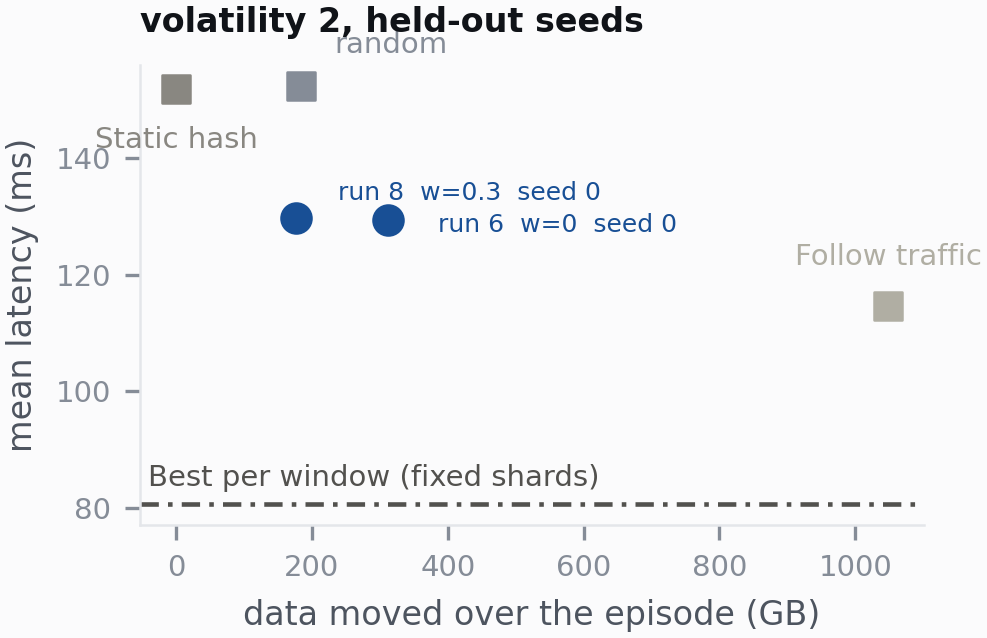
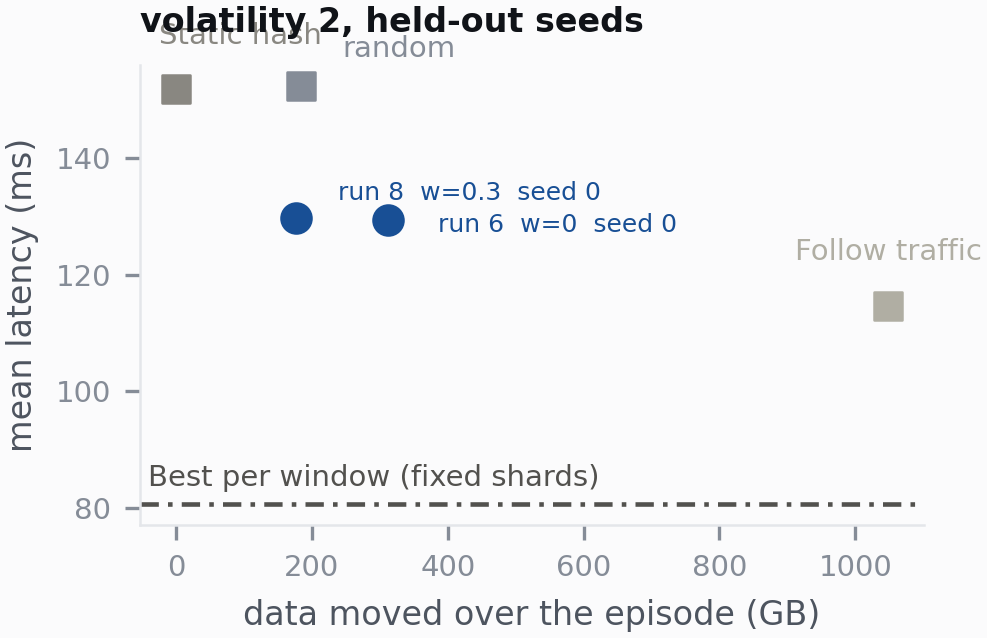
Read the last three archives: the replicate holds, two of my thresholds did not
Both seeds at volatility 4 and weight 0.30 beat follow traffic, by 0.068 and
0.031. The seed spread of 0.036 is smaller than the smaller margin, so the
result survives a change of seed, which is what run 7 was dispatched to find
out and what the paper can now claim.

The win is specific rather than general. It holds at volatility 4 and weight
0.30 and nowhere else tested: level at volatility 2 and the same weight, 0.012
behind at weight 0.10, and out of the contest at weight 0.00 where follow
traffic's terabyte of movement is free. That is coherent. The agent's advantage
is in how little it moves, so it grows with the price of moving, and raising
the weight from 0.10 to 0.30 turns a deficit into an advantage.

Against static hashing the agent wins in all five measured runs under every
weight, by 0.035 to 0.202, and that needs no qualification.

I also have to correct my own threshold table. It held follow traffic's cost at
weight 0.30 whilst scoring runs 4 and 6 at their own lower weights, which
compares a policy against a differently-weighted opponent. It called run 4 a
near-certain win; scored correctly it loses. The rows computed at a single
weight throughout stand, including the coin toss called on run 8, which lost by
0.0028.

All five imbalances now measured, 0.695 to 0.816, against static hashing's 0.50
to 0.56 and follow traffic's 0.95 to 1.00. The agent is reliably intermediate
and never approaches follow traffic's concentration, which given that cluster
[…]

diff --git a/docs/open-questions.md b/docs/open-questions.md
@@ -641,3 +641,61 @@ frontier and should be read rather than assumed.
 
 Until run 7 is read, the volatility-4 claim rests on one seed, and this file has
 already recorded that one seed is not enough.
+
+---
+
+## All five agent imbalances measured, 26 October 2026
+
+The remaining three archives were read. Every measured run, scored on the reward
+it was trained under, with the baselines measured on the same held-out seeds:
+
+| Run | Volatility | Weight | Seed | Agent imbalance | Agent cost | Follow cost | Static cost | Against follow |
+|---|---|---|---|---|---|---|---|---|
+| 3 | 4.0 | 0.30 | 0 | 0.776 | 1.4861 | 1.5537 | 1.5573 | **−0.0676** |
+| 7 | 4.0 | 0.30 | 1 | 0.695 | 1.5223 | 1.5537 | 1.5573 | **−0.0314** |
+| 4 | 4.0 | 0.10 | 0 | 0.816 | 1.4572 | 1.4451 | 1.5573 | +0.0121 |
+| 8 | 2.0 | 0.30 | 0 | 0.773 | 1.4003 | 1.3975 | 1.5668 | +0.0028 |
+| 6 | 2.0 | 0.00 | 0 | 0.723 | 1.3647 | 1.2402 | 1.5668 | +0.1245 |
+
+Negative is better. Follow traffic's own cost moves with the weight, so each row
+compares like with like.
+
+### Two of my earlier thresholds were wrong
+
+The threshold table recorded above held follow traffic's cost at weight 0.30
+whilst scoring runs 4 and 6 at their own lower weights. That compares a policy
+against a differently-weighted opponent and is simply an error. It predicted run
+4 as a near-certain win at a threshold of 1.781; scored correctly the threshold
+is 0.695, its imbalance is 0.816, and it loses. Run 6 could never have won at
+weight 0.00, where follow traffic's terabyte of movement is free.
+
+The thresholds for runs 3, 7 and 8 were computed at weight 0.30 throughout and
+stand. Run 8's prediction of a coin toss was right: it lost by 0.0028.
+
+### What the complete set says
+
+**The replicate holds.** Both seeds at volatility 4 and weight 0.30 beat follow
+traffic, by 0.068 and 0.031. The seed spread of 0.036 is smaller than the
+smaller of the two margins, so the result survives a change of seed. This is the
+claim the paper can make.
+
+**The win is specific.** It holds at volatility 4 and weight 0.30 and nowhere
+else tested. At volatility 2 and the same weight the two are level, 1.4003
+against 1.3975, which is a draw rather than a loss. At weight 0.10 the agent
+falls behind by 0.012, and at weight 0.00 it is not in the contest, because a
+zero movement charge is precisely the objective its strategy is built to exploit.
+
+That is coherent rather than awkward: **the agent's advantage is in how little it
+moves, so it grows with the price of moving.** Raising the migration weight from
+0.10 to 0.30 turns a 0.012 deficit into a 0.031 to 0.068 advantage. With one run
+at the lower weight that is suggestive rather than established, but it is the
+mechanism the numbers imply.
+
+**The agent beats static hashing everywhere**, by 0.035 to 0.202, in all five
+measured runs and under every weight. That claim needs no qualification.
+
+**Load imbalance is the consistent story.** All five agents land between 0.695
+and 0.816, against static hashing's 0.501 to 0.561 and follow traffic's 0.945 to
+1.003. The agent is reliably intermediate and never approaches follow traffic's
+concentration. Given that cluster pilot 3 showed concentration saturating a real
+node, this is the most transferable of the three terms.
